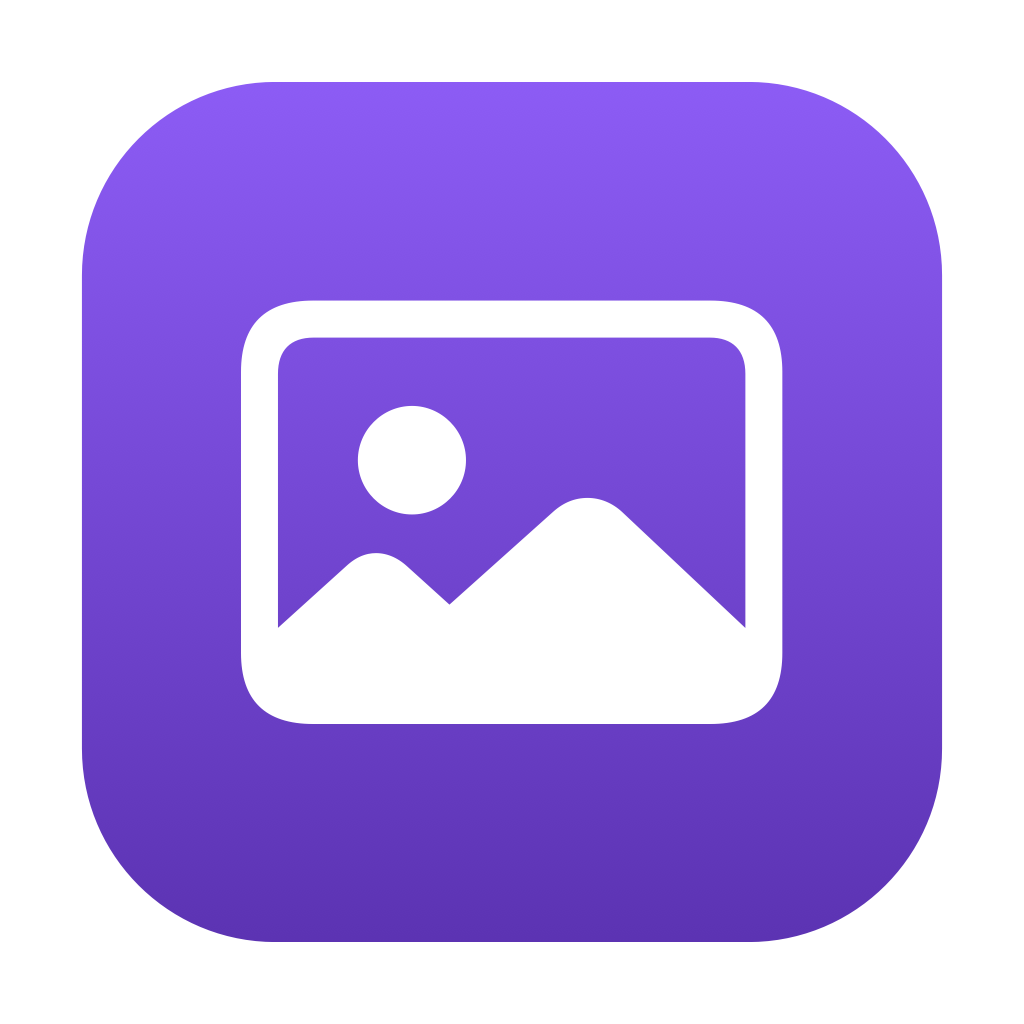
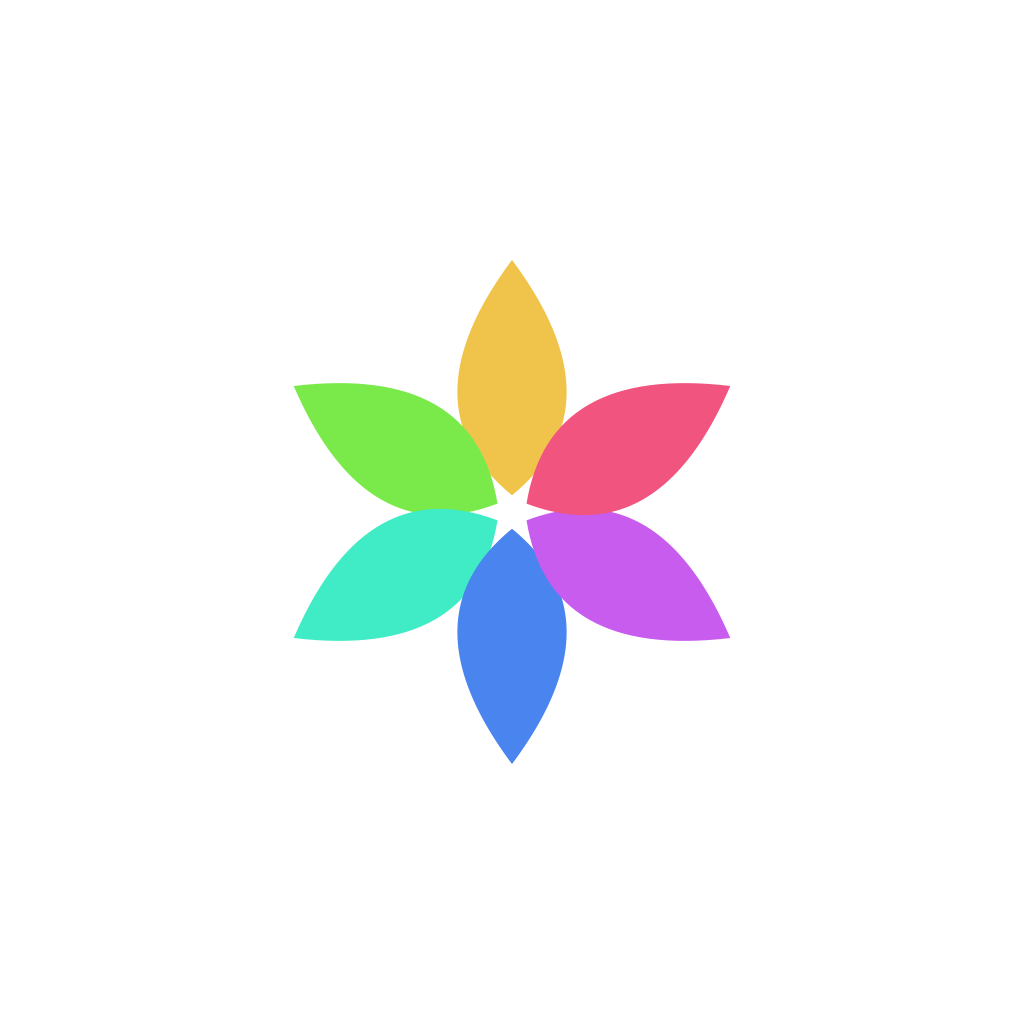
MyGallery/MyTubeのアイコンをユーザー指示で再デザイン
MyGalleryはmacOS Photosアプリ風の6色花びらモチーフに、MyTubeは
単色(コーラル)の角丸再生三角形に変更(白背景+単色シルエット統一へ
再度寄せた)。

diff --git a/mygallery/make-icon.swift b/mygallery/make-icon.swift
@@ -1,15 +1,18 @@
 #!/usr/bin/env swift
-// MyPassと同じ紫グラデーション背景に、白の写真フレーム(SF Symbol "photo")の
-// シルエットを描いたマスターアイコンを生成する。MyGalleryはMyTubeと同じく
-// 2026-09-02に「白背景+黒シルエット」の統一から離脱し、MyPassと背景色を揃えた
-// (ユーザー指示)。build.sh が Resources/AppIcon.png から iconset/icns を
-// ビルド時に都度生成するので、ここでは 1024x1024 の master PNG のみを出力する。
+// macOS Photos.app のアイコン(6枚の花びらが放射状に並ぶレインボー配色の
+// 花/風車モチーフ)に寄せたシルエットに変更(2026-09-08、ユーザー指示
+// 「シルエットは Mac の Photo アプリみたいにしてほしい」)。それまでの単色
+// カメラグリフ・6芒星バッジからの方針転換 ― このモチーフだけは単色ではなく、
+// 花びらごとに異なる色相のレインボー配色にする(Photos.appの実物がそうであるため)。
+// build.sh が Resources/AppIcon.png から iconset/icns をビルド時に都度生成するので、
+// ここでは 1024x1024 の master PNG のみを出力する。
 //   実行: swift make-icon.swift   →  Resources/AppIcon.png を出力
 import AppKit
 
-let purpleTop = NSColor(srgbRed: 0.55, green: 0.36, blue: 0.96, alpha: 1) // MyPassと同じ紫グラデーション
-let purpleBottom = NSColor(srgbRed: 0.36, green: 0.20, blue: 0.70, alpha: 1)
-let silhouetteWhite = NSColor.white // 白 (旧・黒シルエットから変更)
+let bgWhite = NSColor.white
+let petalSaturation: CGFloat = 0.75
+let petalBrightness: CGFloat = 0.92
+let petalHueOffset: CGFloat = 0.12 // 一番上の花びらが黄色寄りになるよう色相環を回転
 
 func renderIcon(pixels: Int) -> NSBitmapImageRep {
     let rep = NSBitmapImageRep(
@@ -24,32 +27,45 @@ func renderIcon(pixels: Int) -> NSBitmapImageRep {
 
     let s = CGFloat(pixels)
     let inset = s * 0.08
-    let rect = NSRect(x: inset, y: inset, width: s - inset * 2, height: s - inset * 2)
-    let radius = rect.width * 0.225
-    let path = NSBezierPath(roundedRect: rect, xRadius: radius, yRadius: radius)
+    let outerRect = NSRect(x: inset, y: inset, width: s - inset * 2, height: s - inset * 2)
+    let outerRadius = outerRect.width * 0.225
+    let outerPath = NSBezierPath(roundedRect: outerRect, xRadius: outerRadius, yRadius: outerRadius)
 
-    let gradient = NSGradient(colors: [purpleTop, purpleBottom])!
-    gradient.draw(in: path, angle: -90)
+    bgWhite.setFill()
+    outerPath.fill()
 
-    // 中央に白い写真(山と太陽の入った額縁)アイコン(SF Symbol "photo")のシルエット
-    let glyphSize = s * 0.46
-    let config = NSImage.SymbolConfiguration(pointSize: glyphSize, weight: .regular)
-    guard let symbol = NSImage(systemSymbolName: "photo", accessibilityDescription: nil)?
-        .withSymbolConfiguration(config) else {
-        fatalError("SF Symbol 'photo' not found")
+    // 6 rounded petals radiating from the center, each a different hue —
+    // built from a single symmetric petal path (two quadratic curves from a
+    // small base offset near center out to a tip) rotated 60° apart.
+    let g = ctx.cgContext
+    let cx = s * 0.5
+    let cy = s * 0.5
+    let petalCount = 6
+    let petalLength = outerRect.width * 0.293 // 300/1024 scaled to outerRect proportions
+    let petalWidth = outerRect.width * 0.254 // 260/1024
+    let baseInset = outerRect.width * 0.0195 // 20/1024
+
+    for i in 0..<petalCount {
+        let angle = CGFloat(i) * (2 * .pi / CGFloat(petalCount)) + .pi / 2
+        let hue = (CGFloat(i) / CGFloat(petalCount) + petalHueOffset).truncatingRemainder(dividingBy: 1.0)
+        let color = NSColor(calibratedHue: hue, saturation: petalSaturation, brightness: petalBrightness, alpha: 1)
+
+        let petalPath = CGMutablePath()
+        let base = CGPoint(x: baseInset, y: 0)
+        let tip = CGPoint(x: petalLength, y: 0)
+        petalPath.move(to: base)
+        petalPath.addQuadCurve(to: tip, control: CGPoint(x: petalLength * 0.42, y: petalWidth / 2))
+        petalPath.addQuadCurve(to: base, control: CGPoint(x: petalLength * 0.42, y: -petalWidth / 2))
+        petalPath.closeSubpath()
+
+        g.saveGState()
+        g.translateBy(x: cx, y: cy)
+        g.rotate(by: angle)
+        g.setFillColor(color.cgColor)
+        g.addPath(petalPath)
+        g.fillPath()
+        g.restoreGState()
     }
-    let symbolSize = symbol.size
-    let origin = NSPoint(x: (s - symbolSize.width) / 2, y: (s - symbolSize.height) / 2)
-
-    let cg = ctx.cgContext
-    cg.saveGState()
-    cg.beginTransparencyLayer(auxiliaryInfo: nil)
-    symbol.draw(at: origin, from: .zero, operation: .sourceOver, fraction: 1.0)
-    cg.setBlendMode(.sourceIn)
-    cg.setFillColor(silhouetteWhite.cgColor)
-    cg.fill(CGRect(x: 0, y: 0, width: s, height: s))
-    cg.endTransparencyLayer()
-    cg.restoreGState()
 
     NSGraphicsContext.restoreGraphicsState()
     return rep

diff --git a/mytube/make-icon.swift b/mytube/make-icon.swift
@@ -1,14 +1,26 @@
 #!/usr/bin/env swift
-// MyPassと同じ紫グラデーション背景に、白の再生ボタン(プレート)を描き、中央の
-// 三角形は背景色(紫)でくり抜いた macOS アプリアイコンを生成する。MyTube だけは
-// 意図的に「白背景+黒シルエット」の統一から外れ、MyPass と背景色を揃えた
-// (2026-09-02、ユーザー指示)。
+// 白背景+単色シルエットへ再度統一(2026-09-08、ユーザー指示: 前の多色シルエット
+// (紫グラデ+白三角形→濃いプレート+虹色グラデーション三角形)は「かっこよくない」
+// との評価で、「シルエットは一色にして、おしゃれなシルエットにして」と明示された)。
+// モチーフは角丸の再生三角形のみ(コーラル、単色)にした ― 候補として提示した
+// 「プレート+三角形」「円バッジ+三角形」より、この最もミニマルな案がユーザーに
+// 選ばれた。
 //   実行: swift make-icon.swift   →  AppIcon.icns と AppIcon.iconset/ を出力
 import AppKit
 
-let purpleTop = NSColor(srgbRed: 0.55, green: 0.36, blue: 0.96, alpha: 1) // MyPassと同じ紫グラデーション
-let purpleBottom = NSColor(srgbRed: 0.36, green: 0.20, blue: 0.70, alpha: 1)
-let silhouetteWhite = NSColor.white // 白 (旧・黒シルエットから変更)
+let bgWhite = NSColor.white
+let silhouetteCoral = NSColor(calibratedRed: 0.93, green: 0.29, blue: 0.35, alpha: 1)
+
+// Rounds each corner of a triangle by a fixed radius using CGPath's arc-to.
+func roundedTrianglePath(p1: CGPoint, p2: CGPoint, p3: CGPoint, radius: CGFloat) -> CGPath {
+    let path = CGMutablePath()
+    path.move(to: p1)
+    path.addArc(tangent1End: p2, tangent2End: p3, radius: radius)
+    path.addArc(tangent1End: p3, tangent2End: p1, radius: radius)
+    path.addArc(tangent1End: p1, tangent2End: p2, radius: radius)
+    path.closeSubpath()
+    return path
+}
 
 func renderIcon(pixels: Int) -> NSBitmapImageRep {
     let rep = NSBitmapImageRep(
@@ -23,34 +35,30 @@ func renderIcon(pixels: Int) -> NSBitmapImageRep {
 
     let s = CGFloat(pixels)
     let inset = s * 0.08
-    let rect = NSRect(x: inset, y: inset, width: s - inset * 2, height: s - inset * 2)
-    let radius = rect.width * 0.225
-    let path = NSBezierPath(roundedRect: rect, xRadius: radius, yRadius: radius)
+    let outerRect = NSRect(x: inset, y: inset, width: s - inset * 2, height: s - inset * 2)
+    let outerRadius = outerRect.width * 0.225
+    let outerPath = NSBezierPath(roundedRect: outerRect, xRadius: outerRadius, yRadius: outerRadius)
 
-    let gradient = NSGradient(colors: [purpleTop, purpleBottom])!
-    gradient.draw(in: path, angle: -90)
+    bgWhite.setFill()
+    outerPath.fill()
 
-    // 中央に白い角丸長方形(再生ボタンのプレート)。中の三角形は背景色(紫)でくり抜く。
-    let plateW = rect.width * 0.62
-    let plateH = rect.height * 0.44
-    let plateRect = NSRect(x: rect.midX - plateW / 2, y: rect.midY - plateH / 2, width: plateW, height: plateH)
-    let plateRadius = plateH * 0.28
-    let plate = NSBezierPath(roundedRect: plateRect, xRadius: plateRadius, yRadius: plateRadius)
+    // Just a single rounded-corner play triangle, no background plate/circle —
+    // the most minimal of the candidates, chosen over a plate- or badge-backed
+    // version.
+    let g = ctx.cgContext
+    let cx = s * 0.5
+    let cy = s * 0.5
+    let triW = s * 0.34
+    let triH = s * 0.40
+    let triCx = cx + triW * 0.12
+    let p1 = CGPoint(x: triCx - triW / 2, y: cy + triH / 2)
+    let p2 = CGPoint(x: triCx - triW / 2, y: cy - triH / 2)
+    let p3 = CGPoint(x: triCx + triW / 2, y: cy)
+    let path = roundedTrianglePath(p1: p1, p2: p2, p3: p3, radius: s * 0.028)
 
-    let triW = plateW * 0.34
-    let triH = plateH * 0.5
-    let cx = rect.midX + triW * 0.12
-    let cy = rect.midY
-    let tri = NSBezierPath()
-    tri.move(to: NSPoint(x: cx - triW / 2, y: cy + triH / 2))
-    tri.line(to: NSPoint(x: cx - triW / 2, y: cy - triH / 2))
-    tri.line(to: NSPoint(x: cx + triW / 2, y: cy))
-    tri.close()
-
-    plate.append(tri)
-    plate.windingRule = .evenOdd
-    silhouetteWhite.setFill()
-    plate.fill()
+    g.setFillColor(silhouetteCoral.cgColor)
+    g.addPath(path)
+    g.fillPath()
 
     NSGraphicsContext.restoreGraphicsState()
     return rep
